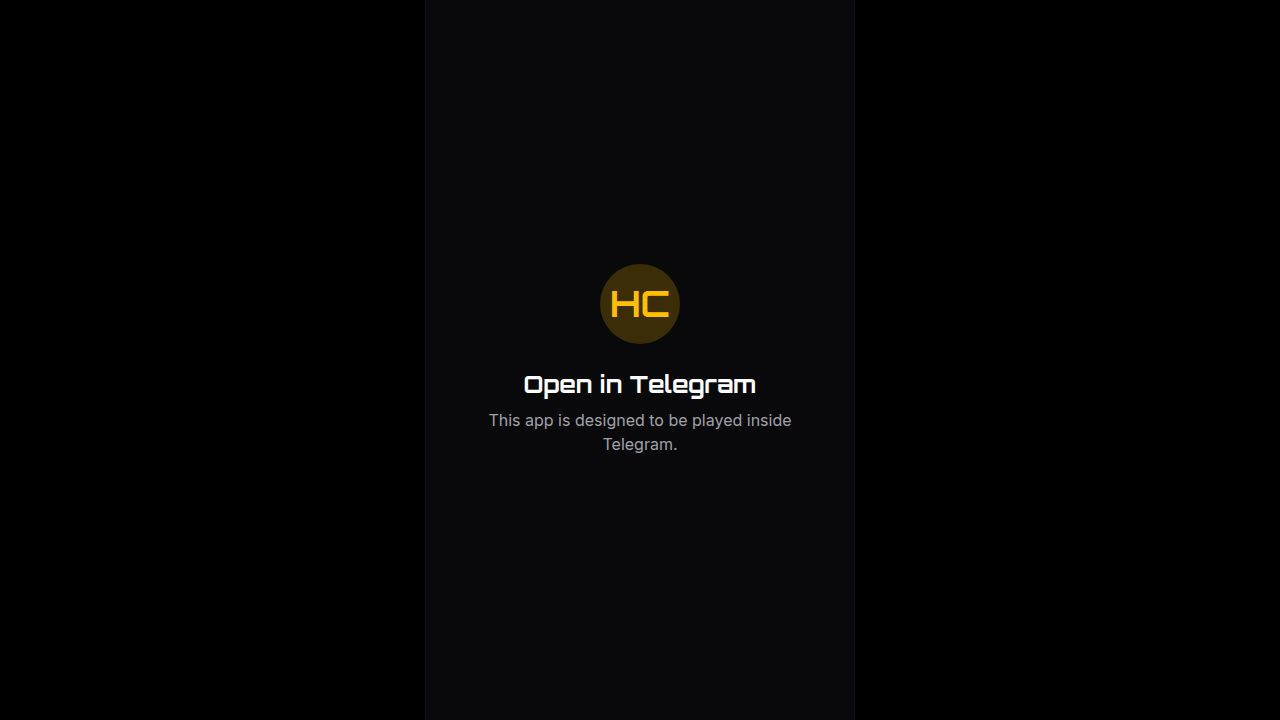
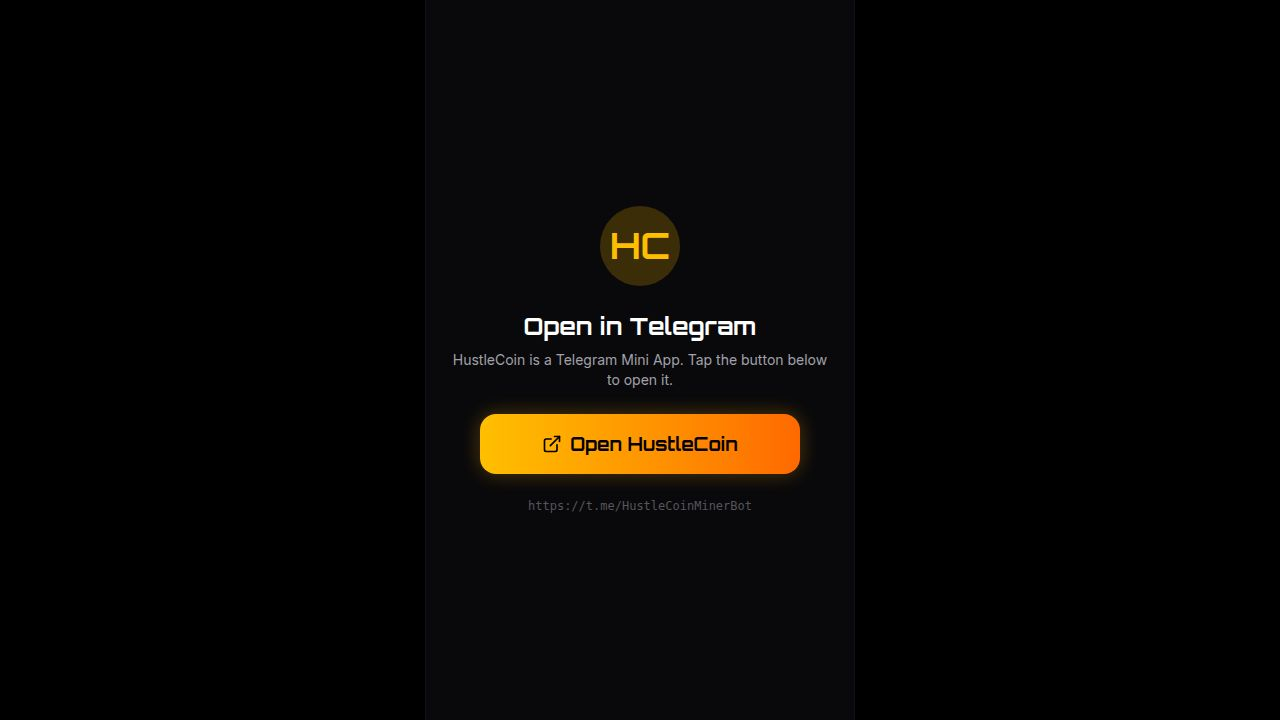
Add a button to open the Telegram Mini App and prevent users from getting stuck
Update Vite configuration to inject Telegram bot and app shortname environment variables, and modify the Layout component to display a button linking to the Telegram Mini App, ensuring users are not trapped on a placeholder page.

Replit-Commit-Author: Agent
Replit-Commit-Session-Id: 583e6c65-12c7-48ad-8ae2-966c37619cc9
Replit-Commit-Checkpoint-Type: full_checkpoint
Replit-Commit-Event-Id: f7269477-309d-40d9-be57-7a8cd6e0bce1
Replit-Commit-Screenshot-Url: https://storage.googleapis.com/screenshot-production-us-central1/cb6c5ccf-e5ba-446d-9b9d-dc443737cf73/583e6c65-12c7-48ad-8ae2-966c37619cc9/ARJIoY3

Changed region(s): [[0.3438, 0.275, 0.6562, 0.6722]]

diff --git a/artifacts/hustlecoin/src/components/Layout.tsx b/artifacts/hustlecoin/src/components/Layout.tsx
@@ -1,22 +1,52 @@
 import React from "react";
 import { Link, useLocation } from "wouter";
-import { Home, User as UserIcon } from "lucide-react";
+import { Home, User as UserIcon, ExternalLink } from "lucide-react";
 import { useAuth } from "@/contexts/AuthContext";
 import { Loader2 } from "lucide-react";
+
+function buildTelegramLink(): string {
+  const bot = __TELEGRAM_BOT_USERNAME__;
+  const app = __TELEGRAM_APP_SHORTNAME__;
+  if (bot && app) {
+    return `https://t.me/${bot}/${app}`;
+  }
+  if (bot) {
+    return `https://t.me/${bot}`;
+  }
+  return "https://t.me";
+}
 
 export const Layout: React.FC<{ children: React.ReactNode }> = ({ children }) => {
   const [location] = useLocation();
   const { isLoading, isTelegramAvailable, isAuthenticated } = useAuth();
 
   if (!isTelegramAvailable) {
+    const link = buildTelegramLink();
     return (
       <div className="min-h-[100dvh] w-full flex items-center justify-center bg-black">
-        <div className="w-full max-w-[430px] h-[100dvh] bg-background flex flex-col items-center justify-center p-6 text-center border-x border-border/50">
-          <div className="w-20 h-20 bg-primary/20 rounded-full flex items-center justify-center mb-6">
+        <div className="w-full max-w-[430px] h-[100dvh] bg-background flex flex-col items-center justify-center p-6 text-center border-x border-border/50 gap-6">
+          <div className="w-20 h-20 bg-primary/20 rounded-full flex items-center justify-center">
             <span className="text-primary font-display text-4xl font-bold">HC</span>
           </div>
-          <h1 className="text-2xl font-display font-bold text-white mb-2" data-testid="text-open-telegram">Open in Telegram</h1>
-          <p className="text-muted-foreground">This app is designed to be played inside Telegram.</p>
+          <div className="flex flex-col gap-2">
+            <h1 className="text-2xl font-display font-bold text-white" data-testid="text-open-telegram">
+              Open in Telegram
+            </h1>
+            <p className="text-muted-foreground text-sm">
+              HustleCoin is a Telegram Mini App. Tap the button below to open it.
+            </p>
+          </div>
+          <a
+            href={link}
+            target="_blank"
+            rel="noopener noreferrer"
+            data-testid="button-open-telegram"
+            className="flex items-center justify-center gap-2 w-full max-w-xs rounded-2xl py-4 px-6 bg-gradient-to-r from-primary to-orange-500 text-black font-display font-bold text-lg shadow-[0_0_20px_rgba(255,170,0,0.3)] hover:shadow-[0_0_30px_rgba(255,170,0,0.5)] transition-shadow"
+          >
+            <ExternalLink className="w-5 h-5" />
+            Open HustleCoin
+          </a>
+          <p className="text-muted-foreground/50 text-xs font-mono break-all">{link}</p>
         </div>
       </div>
     );

diff --git a/artifacts/hustlecoin/src/vite-env.d.ts b/artifacts/hustlecoin/src/vite-env.d.ts
@@ -1,0 +1,4 @@
+/// <reference types="vite/client" />
+
+declare const __TELEGRAM_BOT_USERNAME__: string;
+declare const __TELEGRAM_APP_SHORTNAME__: string;

diff --git a/artifacts/hustlecoin/vite.config.ts b/artifacts/hustlecoin/vite.config.ts
@@ -28,6 +28,10 @@ if (!basePath) {
 
 export default defineConfig({
   base: basePath,
+  define: {
+    __TELEGRAM_BOT_USERNAME__: JSON.stringify(process.env.TELEGRAM_BOT_USERNAME ?? ""),
+    __TELEGRAM_APP_SHORTNAME__: JSON.stringify(process.env.TELEGRAM_APP_SHORTNAME ?? ""),
+  },
   plugins: [
     react(),
     tailwindcss(),